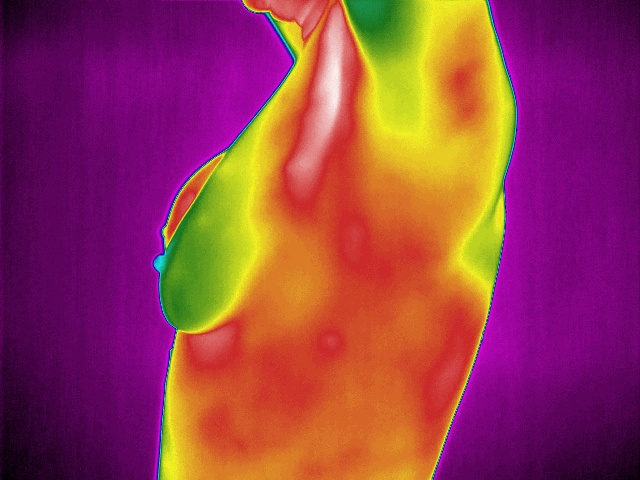
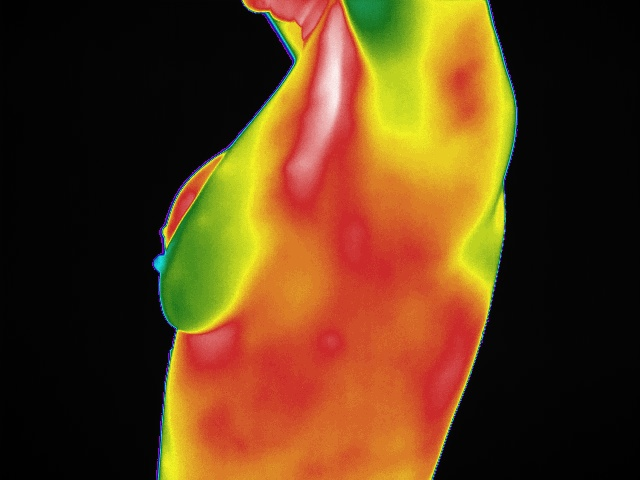
upload enhanced method

diff --git a/aplicaAprimoramento.py b/aplicaAprimoramento.py
@@ -14,7 +14,7 @@ def carregar_paleta(caminho_paleta):
     
     return np.array(paleta, dtype=np.uint8)
 
-for i in range(2, 101): 
+for i in range(2, 21): 
     # Carregar a imagem original 
     caminho_imagem = f"C:\\Users\\cactu\\Downloads\\lint\\imags_test_doentes\\a ({i}).jpg"
     imagem_original = cv2.imread(caminho_imagem, cv2.IMREAD_GRAYSCALE)
@@ -38,6 +38,12 @@ for i in range(2, 101):
     matriz_calor = (matriz_calor - matriz_calor.min()) / (matriz_calor.max() - matriz_calor.min()) * 255
     matriz_calor = matriz_calor.astype(np.uint8)
 
+    # limite do fundo 
+    limite_fundo = 45
+    valor_fundo = 0  
+
+    matriz_calor[matriz_calor < limite_fundo] = valor_fundo
+
     paleta = carregar_paleta("C:\\Users\\cactu\\Downloads\\lint\\normalizações\\Rain.pal")
 
     matriz_calor_normalizada = (matriz_calor / 255.0) * (len(paleta) - 1)
@@ -57,5 +63,5 @@ for i in range(2, 101):
     # Misturar a matriz de calor com a imagem original 
     sobreposicao = cv2.addWeighted(imagem_original_bgr, 0.2, matriz_calor_colorida, 0.8, 0)
 
-    caminho_saida = f"C:\\Users\\cactu\\PROJETOS\\python\\aprimoramento_projeto\\enhancement_Imags\\Rain\\Rain_{i-1}.jpg"
+    caminho_saida = f"C:\\Users\\cactu\\PROJETOS\\python\\aprimoramento_projeto\\processed_Imags\\Rain\\Rain_{i-1}.jpg"
     cv2.imwrite(caminho_saida, sobreposicao)
